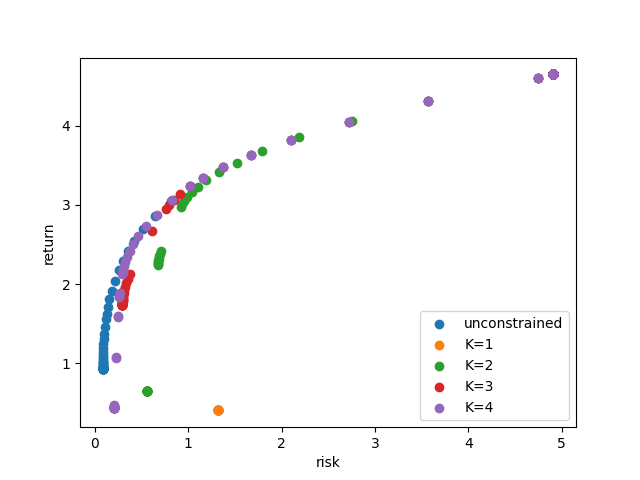
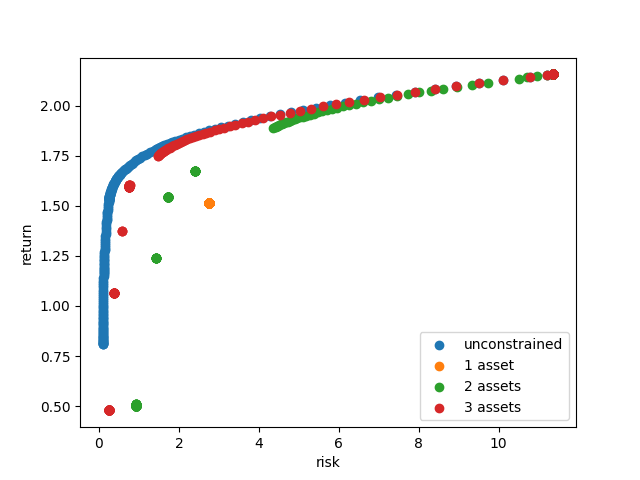
Add more complex example

diff --git a/docs/source/conf.py b/docs/source/conf.py
@@ -55,6 +55,7 @@ extlinks = {
 
 bibtex_bibfiles = [
     "refs/graphs.bib",
+    "refs/portfolio.bib",
     "refs/qubo.bib",
     "refs/regression.bib",
 ]

diff --git a/docs/source/mods/portfolio.rst b/docs/source/mods/portfolio.rst
@@ -214,9 +214,10 @@ decomposition
     \Sigma = F_1 F_1^T + F_2 F_2^T + \cdots + F_l F_l^T
     \end{align*}
 
-is known.  Examples for this are single- or multi-factor models that divide
-the individual covariances into a general market movement, and an
-idiosyncratic risk component for each asset.  See Section TODO for an example.
+is known.  Examples for this are single- or multi-factor models that divide the
+individual covariances into a general market movement, and an idiosyncratic
+risk component for each asset.  See `Efficient frontier(s) with cardinality
+constraints`_ for an example.
 
 Rather than computing the covariance matrix explcitly from the decomposition,
 it is adivised to input the individual factor matrices directly through the
@@ -540,16 +541,16 @@ The returned solution now suggests to trade only the assets "AA", "DD", "HH".
     :options: +NORMALIZE_WHITESPACE
 
     >>> x
-	AA    0.482084
-	BB    0.000000
-	CC    0.000000
-	DD    0.282683
-	EE    0.000000
-	FF    0.000000
-	GG    0.000000
-	HH    0.235233
-	II    0.000000
-	JJ    0.000000
+        AA    0.482084
+        BB    0.000000
+        CC    0.000000
+        DD    0.282683
+        EE    0.000000
+        FF    0.000000
+        GG    0.000000
+        HH    0.235233
+        II    0.000000
+        JJ    0.000000
     dtype: float64
 
 
@@ -657,3 +658,146 @@ by the portfolio itself, reducing the total portfolio value as needed:
 
     >>> print(round(x.sum(), ndigits=6))
     0.997
+
+Efficient frontier(s) with cardinality constraints
+--------------------------------------------------
+
+In the classical mean-variance portfolio theory the *efficient frontier*
+consists of all portfolios that optimally balance risk and return for a range
+of values for :math:`\gamma` (see `Problem Specification`_).  When plotted in
+the risk-return plane the result is a smooth curve, see TODObelow.  In this
+example we will explore the effect of restricting the number of open positions
+on the efficient frontier.
+
+Multiple-Factor Data Model
+~~~~~~~~~~~~~~~~~~~~~~~~~~
+
+For this example we will use synthetic data from a random *multiple-factor
+model*.  In this setting the excess returns are supposed to follow the linear
+model
+
+.. math::
+
+    \begin{equation*}
+      r = Bf + u
+    \end{equation*}
+
+where
+
+* :math:`r \in \mathbf{R}^n` are the excess returns,
+* :math:`B \in \mathbf{R}^{n,k}` are the asset exposures to the market factors,
+* :math:`f \in \mathbf{R}^k` are the factor return rates, and
+* :math:`u \in \mathbf{R}^n` are the residual returns of the assets (uncorrelated).
+
+So this excess return of each asset can be attributed to weighted correlation
+with general market movement (:math:`Bf`) such as macroeconomic influence, and
+intrinsic, uncorrelated returns for each asset (:math:`u`).
+
+These model quantities allow for structured estimates of the first and second
+moments (return and risk); for The details of the derivation we refer to
+:footcite:t:`cornuéjols_peña_tütüncü_2018`, Sect. 6.6.  The important effect on the input
+data for the mean-variance model we want to point out though is that the
+covariance matrix decomposes algebraically as follows:
+
+.. math::
+
+    \begin{equation*}
+      \Sigma = F F^T + \mbox{cov}(u)
+    \end{equation*}
+
+That is, :math:`\Sigma` is given by the sum of a low rank term and a diagonal
+term; we will take advantage of this structure further below.  The following
+code snippet generates some synthetic data according to such a multiple-factor
+model:
+
+.. code-block:: Python
+
+    import numpy as np
+    np.random.seed(0xacac)  # Fix seed for reproducibility
+
+    num_assets = 16
+    num_factors = 4
+    timesteps = 24
+
+    # Generate random factor model parameters
+    sigma_factor = np.diag(np.sqrt(1 + np.arange(num_factors) + np.random.rand(num_factors)))
+    B = np.random.normal(size=(num_assets, num_factors))
+    alpha = np.random.normal(loc=1, size=(num_assets, 1))
+    u = np.random.multivariate_normal(np.zeros(num_assets), np.eye(num_assets), timesteps).T
+
+    # Time series in factor space
+    TS_factor = np.random.multivariate_normal(np.zeros(num_factors), sigma_factor**2, timesteps).T
+
+    # Estimate mu from time series in full space
+    mu = np.mean(alpha + B @ TS_factor + u, axis=1)
+
+    # Final covariance data
+    F = B @ sigma_factor
+    risk_specific = np.diag(np.sqrt(np.diag(np.cov(u))))
+
+Note that the matrices ``F`` and ``risk_specific`` are already in the format for the
+optimization model as described in `Using factor models as input`_.  To compute
+the efficient frontier(s), we simple range over a series of values for
+:math:`\gamma`, compute various optimal portfolios with different cardinality
+constraints:
+
+.. code-block:: python
+    :dedent: 0
+
+    from gurobi_optimods.portfolio import MeanVariancePortfolio
+    gammas = np.logspace(-1, 1, 256)**2
+    rr_pairs_unc = []
+    rr_pairs_con = {1: [], 2: [], 3: []}
+
+    for g in gammas:
+        mvp = MeanVariancePortfolio(mu, cov_factors=(F, risk_specific))
+
+        # No cardinality constraints
+        x = mvp.efficient_portfolio(g, silent=True)
+        ret = mu @ x
+        risk = ((F.T @ x)**2).sum() + (x**2 * risk_specific**2).sum()
+        rr_pairs_unc.append((ret, risk))
+
+        for max_positions in [1, 2, 3]:
+            # Some cardinality constraints
+            x = mvp.efficient_portfolio(g, max_positions=max_positions, silent=True)
+            ret = mu @ x
+            risk = ((F.T @ x)**2).sum() + (x**2 * risk_specific**2).sum()
+            rr_pairs_con[max_positions].append((ret, risk))
+
+
+All risk/return pairs are now recorded in ``rr_pairs_unc`` (unconstrained
+portfolios) and ``rr_pairs_con`` (constrained portfolios). The corresponding
+efficient frontiers look like this:
+
+.. code-block:: python
+
+    from matplotlib import pyplot as plt
+    fig, ax = plt.subplots()
+
+    ax.scatter(list(t[1] for t in rr_pairs_unc), list(t[0] for t in rr_pairs_unc), label="unconstrained")
+    for k in rr_pairs_con:
+        v = rr_pairs_con[k]
+        ax.scatter(list(t[1] for t in v), list(t[0] for t in v), label=f"{k:d} asset{'' if k==1 else 's':s}")
+        ax.legend(loc='lower right')
+        plt.xlabel("risk")
+        plt.ylabel("return")
+
+    plt.show()
+
+.. figure:: figures/mvp.png
+
+Of course all cardinality constrained portfolios are dominated by the
+unconstrained ones, but already restricting the portfolio to three open
+positions yields points very close to the unconstrained efficient frontier.
+The discontinuity of the constrained frontiers is a consequence of the discrete
+decision of holding a position or not, preventing a smooth progression from one
+efficient portfolio to another for varying values of :math:`\gamma`.
+
+.. code-block:: python
+
+   while 1:
+       while 2:
+           pass
+
+.. footbibliography::
